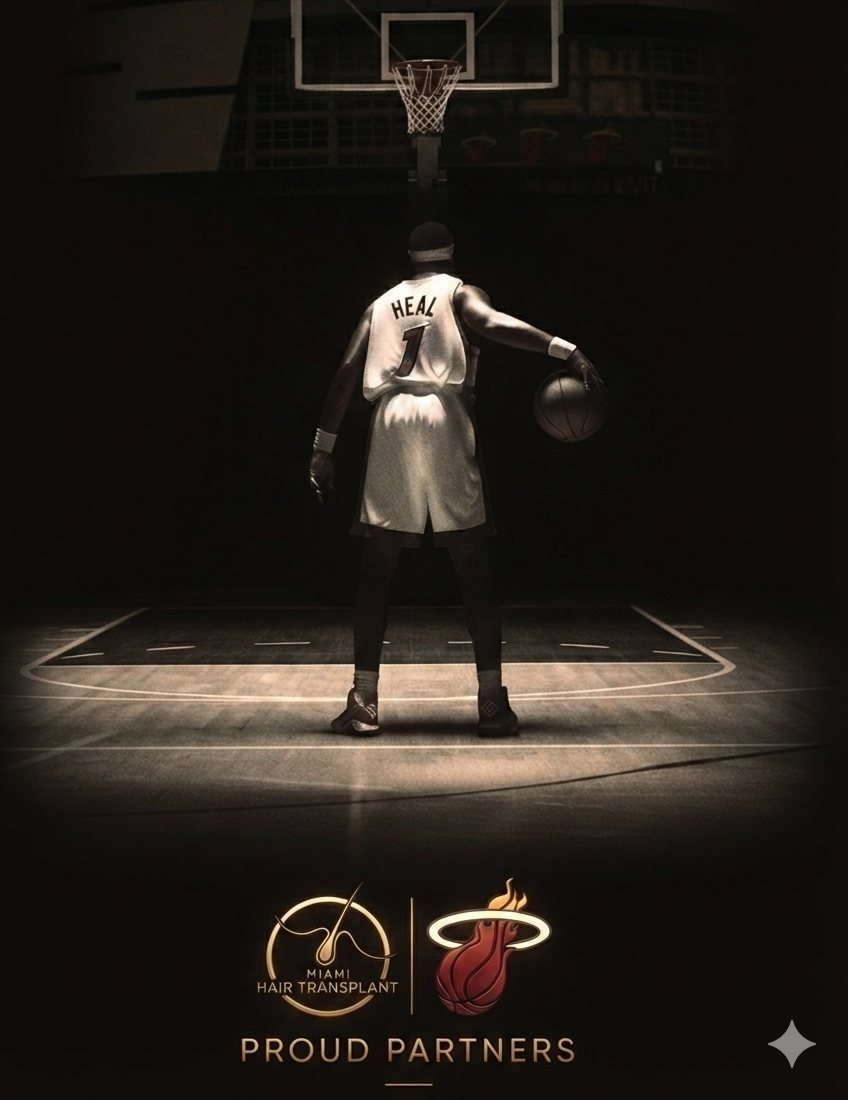
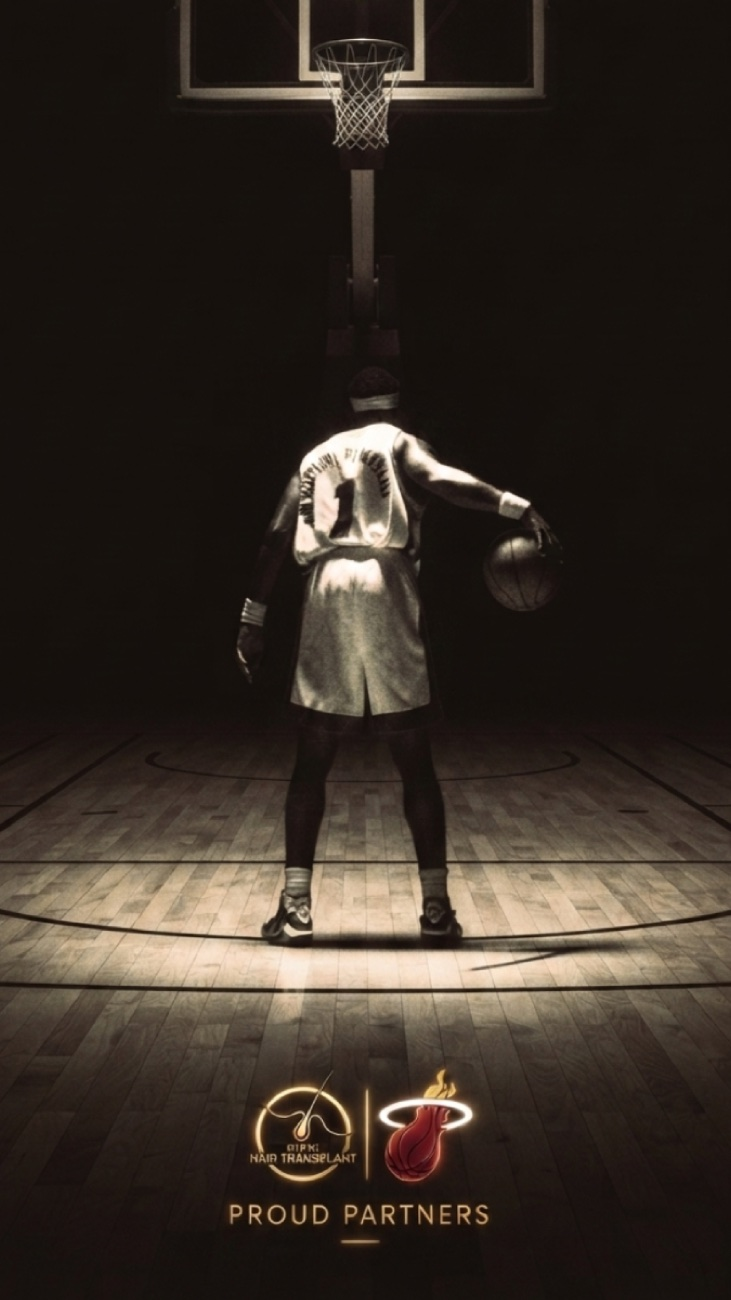
Replace placeholder testimonials with 5 real Google reviews
Home testimonials now show real patient reviews (Lazaro Jesus Leon
Acosta, Omar Perez, Rubi Viamonte, Irazu A. Cabrera, Dalton Sellers)
with names, initials, 5 stars, and Google attribution.

diff --git a/index.html b/index.html
@@ -37,7 +37,7 @@
   }
   </script>
 
-  <link rel="stylesheet" href="css/site.css?v=18">
+  <link rel="stylesheet" href="css/site.css?v=19">
 </head>
 <body>
   <svg width="0" height="0" style="position:absolute" aria-hidden="true"><defs>
@@ -260,28 +260,46 @@
       <div class="testi-grid">
         <div class="testi-card">
           <div class="testi-top"><span class="testi-mark">"</span><span class="card-stars" aria-label="5 out of 5 stars">★★★★★</span></div>
-          <blockquote>Ever since I had my transplant at Miami Hair Transplant, my life has completely changed. I didn't just get my hair back — I got my confidence back too. The team was incredible, always attentive and professional.</blockquote>
+          <blockquote>After a lot of research, I realized Miami Hair Transplant was the only right choice to get my beard hair transplant and I&rsquo;m so glad I did. The team made me feel comfortable from day one and answered all my questions honestly. The procedure went smoothly, and the attention to detail in shaping the beard was impressive. The results already look natural and have boosted my confidence a lot. Thanks again to that amazing team, keep it up guys!</blockquote>
           <div class="testi-who">
-            <div class="testi-avatar">C</div>
-            <div class="testi-name">Carlos R.</div>
+            <div class="testi-avatar">L</div>
+            <div class="testi-name">Lazaro Jesus Leon Acosta</div>
             <div class="testi-src"><svg class="g-mini" viewBox="0 0 24 24" width="16" height="16" aria-hidden="true"><path fill="#4285F4" d="M23.5 12.27c0-.85-.08-1.67-.22-2.45H12v4.64h6.45a5.52 5.52 0 0 1-2.39 3.62v3h3.87c2.26-2.09 3.57-5.17 3.57-8.81z"/><path fill="#34A853" d="M12 24c3.24 0 5.96-1.07 7.93-2.91l-3.87-3c-1.07.72-2.44 1.14-4.06 1.14-3.12 0-5.77-2.11-6.71-4.95H1.29v3.1A12 12 0 0 0 12 24z"/><path fill="#FBBC05" d="M5.29 14.28A7.2 7.2 0 0 1 4.91 12c0-.79.14-1.56.38-2.28v-3.1H1.29a12 12 0 0 0 0 10.76l4-3.1z"/><path fill="#EA4335" d="M12 4.77c1.76 0 3.34.6 4.58 1.79l3.44-3.44C17.95 1.19 15.23 0 12 0A12 12 0 0 0 1.29 6.62l4 3.1C6.23 6.88 8.88 4.77 12 4.77z"/></svg><span>Google review</span></div>
           </div>
         </div>
         <div class="testi-card">
           <div class="testi-top"><span class="testi-mark">"</span><span class="card-stars" aria-label="5 out of 5 stars">★★★★★</span></div>
-          <blockquote>I always felt insecure about my hair loss, but thanks to Miami Hair Transplant, I feel like a new person. The process was so much easier than I imagined, and the result is so natural that no one can tell.</blockquote>
+          <blockquote>Everyone from the staff to the Doctors are incredibly!!! Not only did they try their very best to make me feel comfortable but made it their mission to be able to complete everything even though I had few complication. They are very patient and warm. The experience was great, picked up from the airport straight to the office where everyone was smiling and welcoming. I would definitely recommend Miami transplant to anyone looking to have an upgraded experience with hair transplant.</blockquote>
           <div class="testi-who">
-            <div class="testi-avatar">M</div>
-            <div class="testi-name">Maria G.</div>
+            <div class="testi-avatar">O</div>
+            <div class="testi-name">Omar Perez</div>
             <div class="testi-src"><svg class="g-mini" viewBox="0 0 24 24" width="16" height="16" aria-hidden="true"><path fill="#4285F4" d="M23.5 12.27c0-.85-.08-1.67-.22-2.45H12v4.64h6.45a5.52 5.52 0 0 1-2.39 3.62v3h3.87c2.26-2.09 3.57-5.17 3.57-8.81z"/><path fill="#34A853" d="M12 24c3.24 0 5.96-1.07 7.93-2.91l-3.87-3c-1.07.72-2.44 1.14-4.06 1.14-3.12 0-5.77-2.11-6.71-4.95H1.29v3.1A12 12 0 0 0 12 24z"/><path fill="#FBBC05" d="M5.29 14.28A7.2 7.2 0 0 1 4.91 12c0-.79.14-1.56.38-2.28v-3.1H1.29a12 12 0 0 0 0 10.76l4-3.1z"/><path fill="#EA4335" d="M12 4.77c1.76 0 3.34.6 4.58 1.79l3.44-3.44C17.95 1.19 15.23 0 12 0A12 12 0 0 0 1.29 6.62l4 3.1C6.23 6.88 8.88 4.77 12 4.77z"/></svg><span>Google review</span></div>
           </div>
         </div>
         <div class="testi-card">
           <div class="testi-top"><span class="testi-mark">"</span><span class="card-stars" aria-label="5 out of 5 stars">★★★★★</span></div>
-          <blockquote>Miami Hair Transplant exceeded all my expectations. The staff made me feel comfortable from day one, and the results are simply outstanding. This has truly been a life-changing experience.</blockquote>
+          <blockquote>I had an amazing experience at Miami Hair Transplant with Jose. From the moment I walked in, I felt welcomed and comfortable. Jose is incredibly professional, knowledgeable, and truly passionate about what he does. He took the time to explain every step of the process, answered all my questions, and made sure I felt confident moving forward.</blockquote>
+          <div class="testi-who">
+            <div class="testi-avatar">R</div>
+            <div class="testi-name">Rubi Viamonte</div>
+            <div class="testi-src"><svg class="g-mini" viewBox="0 0 24 24" width="16" height="16" aria-hidden="true"><path fill="#4285F4" d="M23.5 12.27c0-.85-.08-1.67-.22-2.45H12v4.64h6.45a5.52 5.52 0 0 1-2.39 3.62v3h3.87c2.26-2.09 3.57-5.17 3.57-8.81z"/><path fill="#34A853" d="M12 24c3.24 0 5.96-1.07 7.93-2.91l-3.87-3c-1.07.72-2.44 1.14-4.06 1.14-3.12 0-5.77-2.11-6.71-4.95H1.29v3.1A12 12 0 0 0 12 24z"/><path fill="#FBBC05" d="M5.29 14.28A7.2 7.2 0 0 1 4.91 12c0-.79.14-1.56.38-2.28v-3.1H1.29a12 12 0 0 0 0 10.76l4-3.1z"/><path fill="#EA4335" d="M12 4.77c1.76 0 3.34.6 4.58 1.79l3.44-3.44C17.95 1.19 15.23 0 12 0A12 12 0 0 0 1.29 6.62l4 3.1C6.23 6.88 8.88 4.77 12 4.77z"/></svg><span>Google review</span></div>
+          </div>
+        </div>
+        <div class="testi-card">
+          <div class="testi-top"><span class="testi-mark">"</span><span class="card-stars" aria-label="5 out of 5 stars">★★★★★</span></div>
+          <blockquote>I wanna thank everyone at Miami Hair Transplant for a wonderful job and their customer service. Thank you to the coordinators in the medical team who kept me informed on my son&rsquo;s progress. This is our second appointment after his surgery more than a year ago, and everything has gone as forecasted by the medical team. Thank you, thank you again.</blockquote>
+          <div class="testi-who">
+            <div class="testi-avatar">I</div>
+            <div class="testi-name">Irazu A. Cabrera</div>
+            <div class="testi-src"><svg class="g-mini" viewBox="0 0 24 24" width="16" height="16" aria-hidden="true"><path fill="#4285F4" d="M23.5 12.27c0-.85-.08-1.67-.22-2.45H12v4.64h6.45a5.52 5.52 0 0 1-2.39 3.62v3h3.87c2.26-2.09 3.57-5.17 3.57-8.81z"/><path fill="#34A853" d="M12 24c3.24 0 5.96-1.07 7.93-2.91l-3.87-3c-1.07.72-2.44 1.14-4.06 1.14-3.12 0-5.77-2.11-6.71-4.95H1.29v3.1A12 12 0 0 0 12 24z"/><path fill="#FBBC05" d="M5.29 14.28A7.2 7.2 0 0 1 4.91 12c0-.79.14-1.56.38-2.28v-3.1H1.29a12 12 0 0 0 0 10.76l4-3.1z"/><path fill="#EA4335" d="M12 4.77c1.76 0 3.34.6 4.58 1.79l3.44-3.44C17.95 1.19 15.23 0 12 0A12 12 0 0 0 1.29 6.62l4 3.1C6.23 6.88 8.88 4.77 12 4.77z"/></svg><span>Google review</span></div>
+          </div>
+        </div>
+        <div class="testi-card">
+          <div class="testi-top"><span class="testi-mark">"</span><span class="card-stars" aria-label="5 out of 5 stars">★★★★★</span></div>
+          <blockquote>From the start to the finish I felt so comfortable and they explained all the important follow-up details that are needed for aftercare. Also got a good deal on Nutrafol shampoo, serum, and supplements!</blockquote>
           <div class="testi-who">
             <div class="testi-avatar">D</div>
-            <div class="testi-name">David S.</div>
+            <div class="testi-name">Dalton Sellers</div>
             <div class="testi-src"><svg class="g-mini" viewBox="0 0 24 24" width="16" height="16" aria-hidden="true"><path fill="#4285F4" d="M23.5 12.27c0-.85-.08-1.67-.22-2.45H12v4.64h6.45a5.52 5.52 0 0 1-2.39 3.62v3h3.87c2.26-2.09 3.57-5.17 3.57-8.81z"/><path fill="#34A853" d="M12 24c3.24 0 5.96-1.07 7.93-2.91l-3.87-3c-1.07.72-2.44 1.14-4.06 1.14-3.12 0-5.77-2.11-6.71-4.95H1.29v3.1A12 12 0 0 0 12 24z"/><path fill="#FBBC05" d="M5.29 14.28A7.2 7.2 0 0 1 4.91 12c0-.79.14-1.56.38-2.28v-3.1H1.29a12 12 0 0 0 0 10.76l4-3.1z"/><path fill="#EA4335" d="M12 4.77c1.76 0 3.34.6 4.58 1.79l3.44-3.44C17.95 1.19 15.23 0 12 0A12 12 0 0 0 1.29 6.62l4 3.1C6.23 6.88 8.88 4.77 12 4.77z"/></svg><span>Google review</span></div>
           </div>
         </div>
@@ -487,6 +505,6 @@
     </div>
   </footer>
 
-  <script src="js/site.js?v=18"></script>
+  <script src="js/site.js?v=19"></script>
 </body>
 </html>

diff --git a/css/site.css b/css/site.css
@@ -749,15 +749,21 @@
       /* Swipe affordance: next card peeks; fade hints at the rail edges */
       .rail-hint { position: relative; }
 
-      /* Image grids on mobile: before/after full-width 1-up, clinic 2-up */
-      .ba-grid, .gallery-grid {
-        display: grid; gap: 10px;
+      /* Clinic gallery: 2-up grid on mobile */
+      .gallery-grid {
+        display: grid; grid-template-columns: 1fr 1fr; gap: 10px;
         overflow: visible; scroll-snap-type: none;
-        margin-inline: 0; padding: 0;
+        margin-inline: 0; padding: 0; grid-auto-rows: unset;
       }
-      .ba-grid { grid-template-columns: 1fr; }
-      .gallery-grid { grid-template-columns: 1fr 1fr; }
-      .ba-grid .ba-item { flex: none; width: auto; scroll-snap-align: none; }
+      /* Before/after: full-width horizontal slider (swipe one at a time) */
+      .ba-grid {
+        display: flex; gap: 12px;
+        overflow-x: auto; scroll-snap-type: x mandatory;
+        margin-inline: -20px; padding: 2px 20px 8px;
+        scrollbar-width: none; -webkit-overflow-scrolling: touch;
+      }
+      .ba-grid::-webkit-scrollbar { display: none; }
+      .ba-grid .ba-item { flex: 0 0 90%; width: auto; scroll-snap-align: center; }
       .gallery-grid { grid-auto-rows: unset; }
       .gallery-grid img, .gallery-grid img.wide {
         flex: none; width: 100%; height: 190px; scroll-snap-align: none;

diff --git a/about.html b/about.html
@@ -15,7 +15,7 @@
   <link rel="preconnect" href="https://fonts.googleapis.com">
   <link rel="preconnect" href="https://fonts.gstatic.com" crossorigin>
   <link href="https://fonts.googleapis.com/css2?family=Montserrat:wght@400;500;600;700;800&display=swap" rel="stylesheet">
-  <link rel="stylesheet" href="css/site.css?v=18">
+  <link rel="stylesheet" href="css/site.css?v=19">
 
   <script type="application/ld+json">
   {
@@ -312,6 +312,6 @@
     </div>
   </footer>
 
-  <script src="js/site.js?v=18"></script>
+  <script src="js/site.js?v=19"></script>
 </body>
 </html>

diff --git a/before-after.html b/before-after.html
@@ -17,7 +17,7 @@
   <link href="https://fonts.googleapis.com/css2?family=Montserrat:wght@400;500;600;700;800&display=swap" rel="stylesheet">
 
 
-  <link rel="stylesheet" href="css/site.css?v=18">
+  <link rel="stylesheet" href="css/site.css?v=19">
   <style>
     /* Gallery page: stacked cards on mobile instead of the home slider rail */
     .allcases { padding: 90px 48px 100px; }
@@ -535,6 +535,6 @@
     </div>
   </footer>
 
-  <script src="js/site.js?v=18"></script>
+  <script src="js/site.js?v=19"></script>
 </body>
 </html>

diff --git a/privacy.html b/privacy.html
@@ -14,7 +14,7 @@
   <link rel="preconnect" href="https://fonts.googleapis.com">
   <link rel="preconnect" href="https://fonts.gstatic.com" crossorigin>
   <link href="https://fonts.googleapis.com/css2?family=Montserrat:wght@400;500;600;700;800&display=swap" rel="stylesheet">
-  <link rel="stylesheet" href="css/site.css?v=18">
+  <link rel="stylesheet" href="css/site.css?v=19">
   <style>
     .ab-legal { padding: 80px 48px 90px; }
     .ab-legal .ab-inner { max-width: 820px; margin: 0 auto; }
@@ -190,6 +190,6 @@
     </div>
   </footer>
 
-  <script src="js/site.js?v=18"></script>
+  <script src="js/site.js?v=19"></script>
 </body>
 </html>

diff --git a/services.html b/services.html
@@ -15,7 +15,7 @@
   <link rel="preconnect" href="https://fonts.googleapis.com">
   <link rel="preconnect" href="https://fonts.gstatic.com" crossorigin>
   <link href="https://fonts.googleapis.com/css2?family=Montserrat:wght@400;500;600;700;800&display=swap" rel="stylesheet">
-  <link rel="stylesheet" href="css/site.css?v=18">
+  <link rel="stylesheet" href="css/site.css?v=19">
 
   <style>
     .svc-hero { padding: 90px 48px 70px; text-align: center; }
@@ -737,6 +737,6 @@
     </div>
   </footer>
 
-  <script src="js/site.js?v=18"></script>
+  <script src="js/site.js?v=19"></script>
 </body>
 </html>

diff --git a/terms.html b/terms.html
@@ -14,7 +14,7 @@
   <link rel="preconnect" href="https://fonts.googleapis.com">
   <link rel="preconnect" href="https://fonts.gstatic.com" crossorigin>
   <link href="https://fonts.googleapis.com/css2?family=Montserrat:wght@400;500;600;700;800&display=swap" rel="stylesheet">
-  <link rel="stylesheet" href="css/site.css?v=18">
+  <link rel="stylesheet" href="css/site.css?v=19">
   <style>
     .ab-legal { padding: 80px 48px 90px; }
     .ab-legal .ab-inner { max-width: 820px; margin: 0 auto; }
@@ -182,6 +182,6 @@
     </div>
   </footer>
 
-  <script src="js/site.js?v=18"></script>
+  <script src="js/site.js?v=19"></script>
 </body>
 </html>